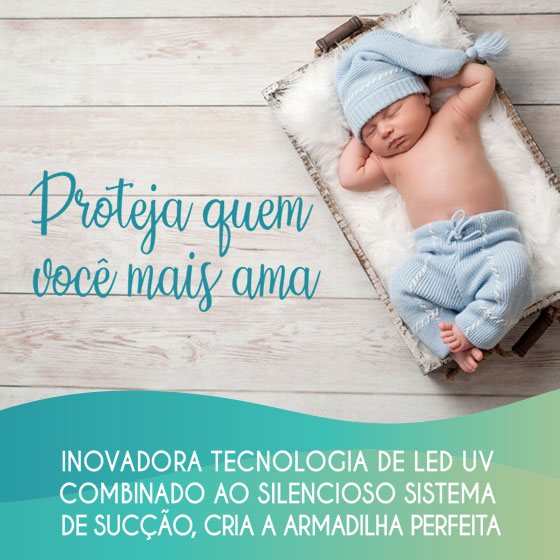
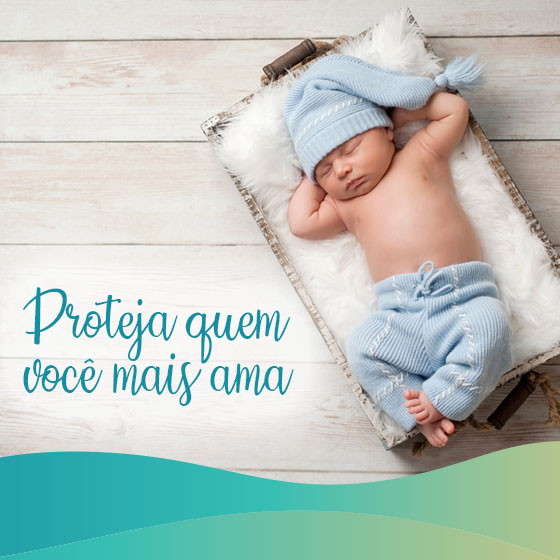
home

diff --git a/2019/wp-content/themes/Basic/style.css b/2019/wp-content/themes/Basic/style.css
@@ -90,13 +90,13 @@ Text Domain: Basic
 .texto h1{
 	font-family: 'Montserrat',Helvetica,Arial,Lucida,sans-serif;
     font-weight: 100;
-    font-size: 40px;
+    font-size: 36px;
     line-height: 1em;
 }
 
 .texto span{
 	font-family: 'Montserrat',Helvetica,Arial,Lucida,sans-serif;
-    font-size: 40px;
+    font-size: 32px;
     color: #464857;
     font-weight: 500;
     display: block;
@@ -233,12 +233,14 @@ div.wpforms-container-full .wpforms-form input[type=date], div.wpforms-container
 
 #loja iframe{
 	width: 100%;
-	height: 1000px
+	height: 1000px;
+	margin-top:-160px;
 }
 
-.barra-inicial.fundo-secundario{
-	display: none !important;
+#loja.container-fluid{
+	overflow: auto;
 }
+
 
 @media only screen and ( max-width: 767px ) {
 	.texto{padding: 40px;}
